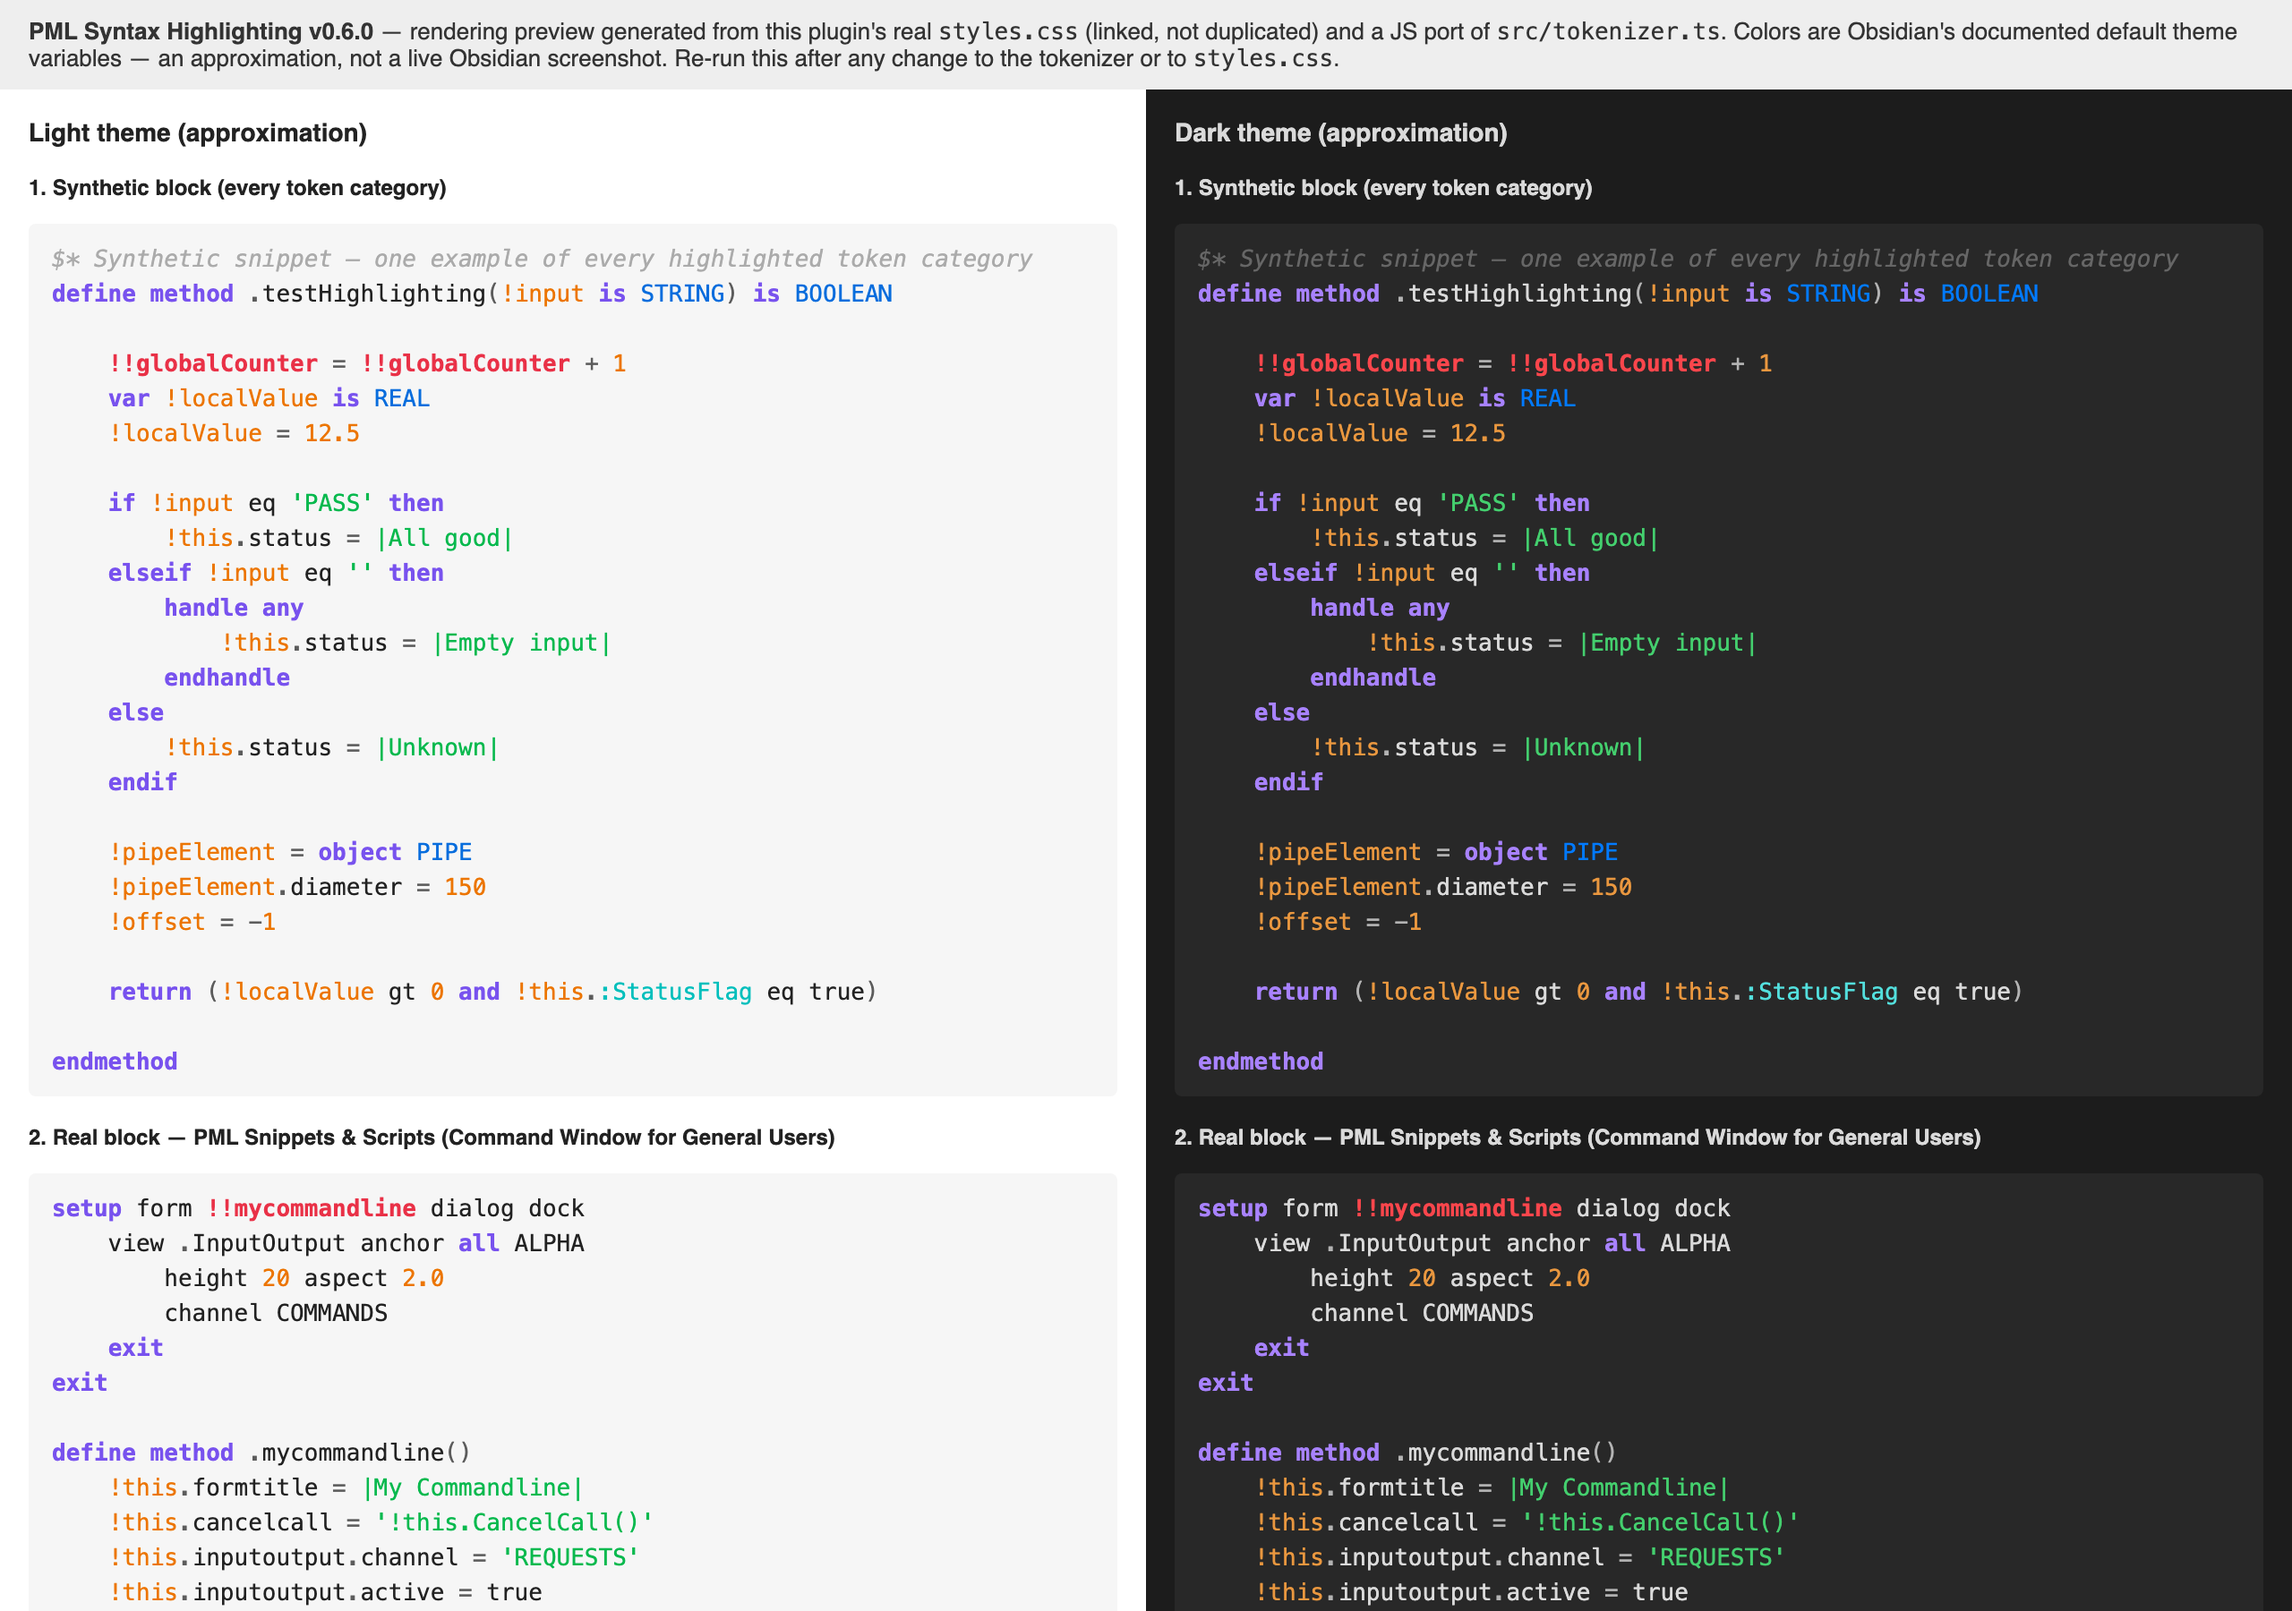
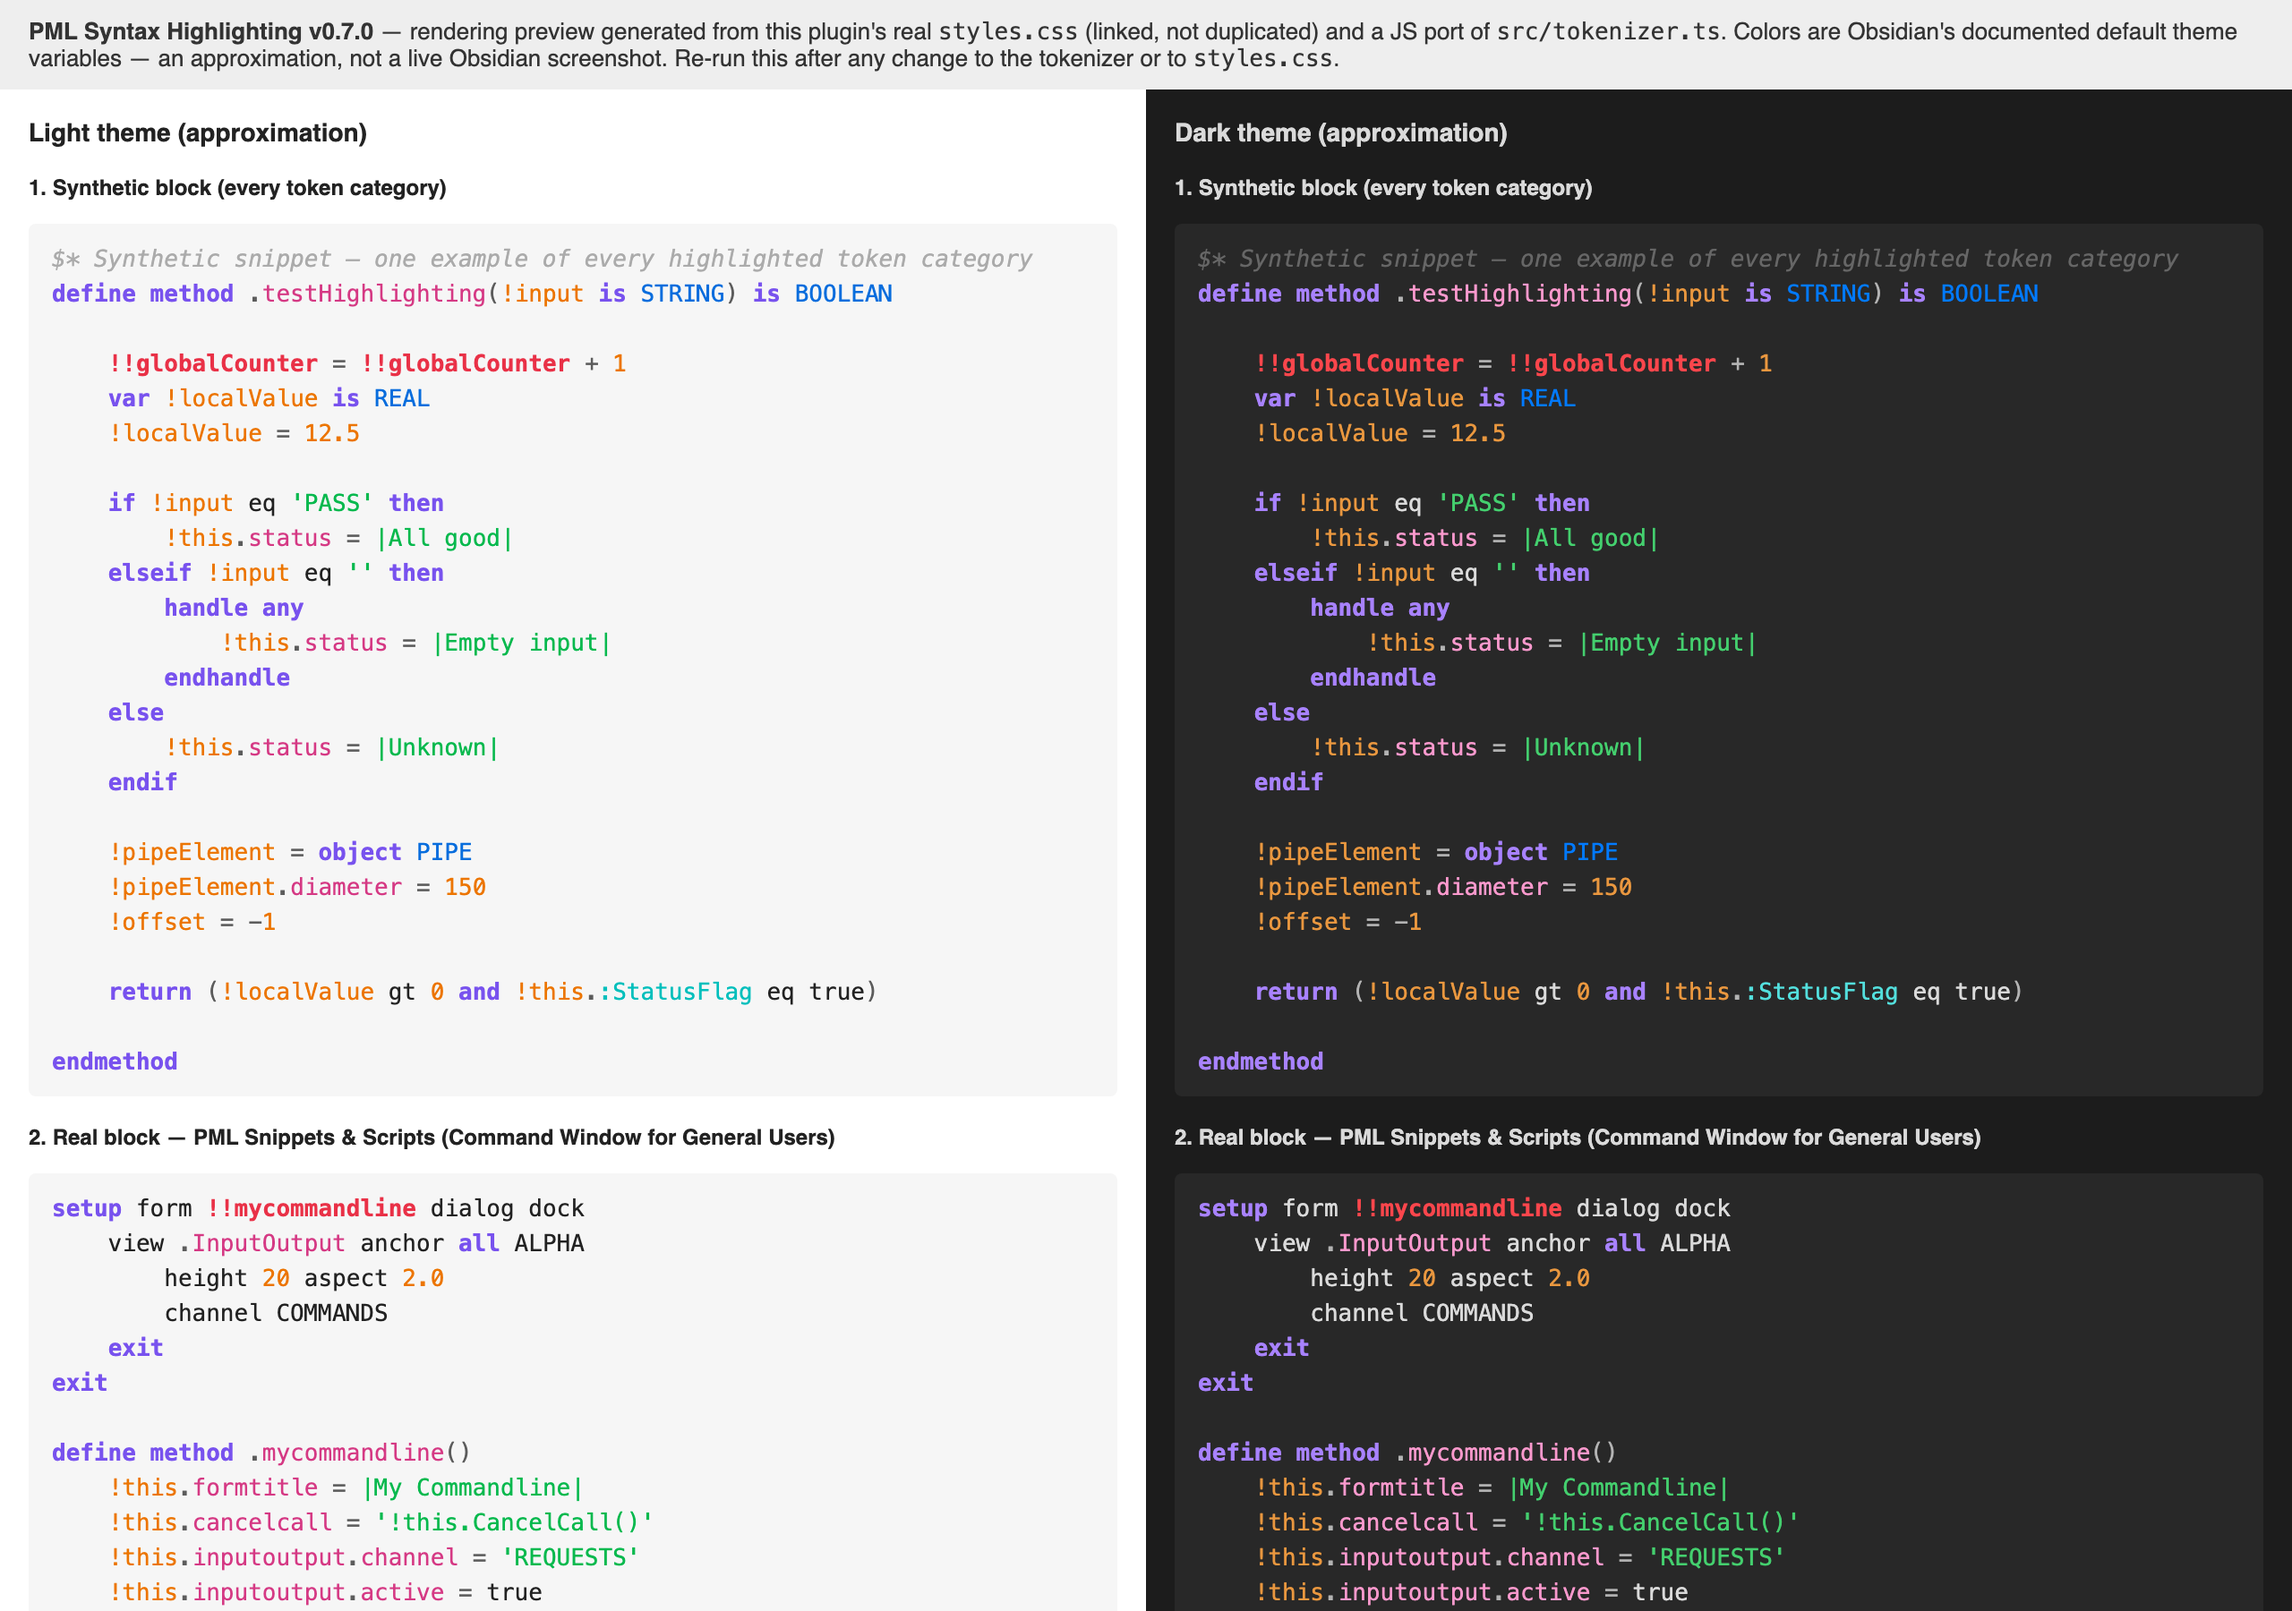
Refresh the README and its screenshot for 0.7.0
- Regenerate docs/preview.png: it still showed v0.6.0's palette, so the
  repo's landing image did not show the feature the release is about.
- Drop the parenthetical about a line that used to mention missing folding —
  an internal changelog note that does not belong in a public README.
- The plugin is listed in the community directory, so the install step no
  longer says "once approved".
- Point the preview-sync note at src/tokenizer.ts: the lexer moved out of
  main.ts when it was extracted, and the instructions still sent readers to
  the old file. Also warn that a new token class needs its theme variable
  declared in preview.html, which only defines the colors currently used —
  without it the token silently renders in the default text color.

diff --git a/README.md b/README.md
@@ -22,11 +22,9 @@ Colors AVEVA PML1/PML2 code: ` ```pml ` fenced blocks in notes (Reading mode and
 
 Not a language server: no autocompletion, no error diagnostics, no cross-file symbol resolution. Visual coloring plus light editing aids (folding, an editable raw-file view).
 
-*(This line used to say "no folding awareness of PML blocks" - folding shipped in v0.5.0.)*
-
 ## Install
 
-**From Obsidian** (once approved in the community plugin directory): Settings → Community plugins → Browse → search "PML Syntax Highlighting" → Install → Enable.
+**From Obsidian**: Settings → Community plugins → Browse → search "PML Syntax Highlighting" → Install → Enable.
 
 **Manual install**:
 
@@ -54,4 +52,4 @@ npm run dev   # esbuild watch mode
 npm run preview   # serves the repo at http://localhost:4321/preview.html
 ```
 
-Open the URL, and (optionally) screenshot both panels. The tokenizer in `preview.html` is a manual port of `tokenizePmlLine`/`KEYWORDS`/`TYPES`/`TOKEN_RE` in `src/main.ts` — if you change any of those, update `preview.html` to match, and add new coverage to its `BLOCKS` array. This is a close approximation of Obsidian's real rendering, not a substitute for actually checking inside Obsidian.
+Open the URL, and (optionally) screenshot both panels. The tokenizer in `preview.html` is a manual port of `tokenizePmlLine`/`KEYWORDS`/`TYPES`/`TOKEN_RE` in `src/tokenizer.ts` — if you change any of those, update `preview.html` to match, and add new coverage to its `BLOCKS` array. A new token class also needs its theme variable declared in `preview.html`'s own `:root` blocks, which only define the colors currently in use: without it the token renders in the default text color and the preview silently understates the change. This is a close approximation of Obsidian's real rendering, not a substitute for actually checking inside Obsidian.
